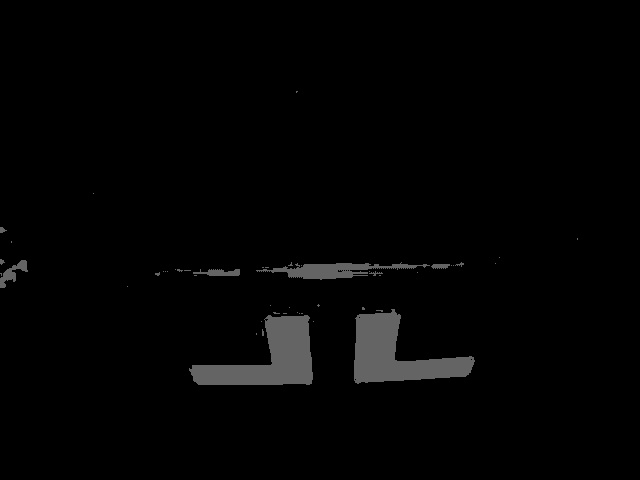
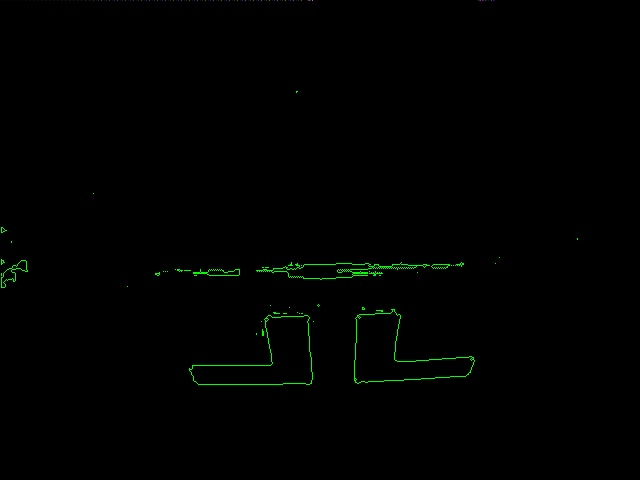
Added Convex Hull to algorithm

diff --git a/src/Program.java b/src/Program.java
@@ -2,7 +2,11 @@ import java.io.File;
 import java.util.ArrayList;
 
 import org.opencv.core.Core;
+import org.opencv.core.CvType;
 import org.opencv.core.Mat;
+import org.opencv.core.MatOfInt;
+import org.opencv.core.MatOfPoint;
+import org.opencv.core.Scalar;
 import org.opencv.highgui.Highgui;
 import org.opencv.imgproc.Imgproc;
 
@@ -21,11 +25,22 @@ public class Program {
 		System.loadLibrary(Core.NATIVE_LIBRARY_NAME);
 
 		// Load image
-		Mat image = Highgui.imread(srcpath);
+		Mat rawImage = Highgui.imread(srcpath);
 
+		// Threshold the raw image into a binary image
+		Mat binaryImage = thresholdHSV(rawImage);
+		// Find contours and outline convex hull around shapes
+		Mat convexHull = convexHull(binaryImage);
+		
+
+		// Write output
+		Highgui.imwrite(dstpath, convexHull);
+	}
+	
+	public static Mat thresholdHSV(Mat rawRGBImage){
 		// Convert to HSV color space
 		Mat hsv = new Mat();
-		Imgproc.cvtColor(image, hsv, Imgproc.COLOR_BGR2HSV);
+		Imgproc.cvtColor(rawRGBImage, hsv, Imgproc.COLOR_BGR2HSV);
 
 		// Split color channels
 		ArrayList<Mat> dsts = new ArrayList<Mat>();
@@ -34,7 +49,7 @@ public class Program {
 		Mat satSrc = dsts.get(1);
 		Mat valSrc = dsts.get(2);
 
-		// Threshold (Hue and Sat only)
+		// Threshold channels individually
 		Mat hueDst = new Mat();
 		Mat satDst = new Mat();
 		Mat valDst = new Mat();
@@ -48,11 +63,54 @@ public class Program {
 		// Combine operations to form binary image
 		Core.bitwise_and(hueDst, satDst, binTemp);
 		Core.bitwise_and(valDst, binTemp, binImg);
-
-		// Write output
-		Highgui.imwrite(dstpath, binImg);
+		
+		// Return the thresholded binary image
+		return binImg;
 	}
 
+	public static Mat convexHull(Mat binaryImage){
+		// Find contours in the image
+		ArrayList<MatOfPoint> contours = new ArrayList<MatOfPoint>();
+		Imgproc.findContours(binaryImage, contours, new Mat(), Imgproc.RETR_TREE, Imgproc.CHAIN_APPROX_SIMPLE);
+		
+		// Find the convex hull object for each contour
+		ArrayList<MatOfInt> hull = new ArrayList<MatOfInt>();
+		for(int i=0; i < contours.size(); i++){
+			hull.add(new MatOfInt());
+		}
+		for(int i=0; i < contours.size(); i++){
+			Imgproc.convexHull(contours.get(i), hull.get(i));
+		}
+		
+		// Convert MatOfInt to MatOfPoint to draw hull
+		ArrayList<MatOfPoint> hullmop = new ArrayList<MatOfPoint>();
+		for(int i=0; i < hull.size(); i++){
+			MatOfPoint mopOut = new MatOfPoint();
+			mopOut.create((int)hull.get(i).size().height,1,hull.get(i).type());
+			
+			for(int j=0; j < hull.get(i).size().height; j++){
+				int index = (int)hull.get(i).get(j, 0)[0];
+				double[] point = new double[] {
+						contours.get(i).get(index, 0)[0], contours.get(i).get(index, 0)[1]
+				};
+				mopOut.put(j, 0, point);
+				
+				hullmop.add(mopOut);
+			}
+		}
+		
+		// Draw contours + hull results
+		Mat overlay = new Mat(binaryImage.size(), CvType.CV_8UC3);
+		Scalar color = new Scalar(0, 255, 0);	// Red
+		for(int i=0; i < contours.size(); i++){
+			Imgproc.drawContours(overlay, contours, i, color);
+			Imgproc.drawContours(overlay, hullmop, i, color);
+		}
+		
+		// Return contour drawn image
+		return overlay;
+	}
+	
 	public static void main(String[] args) {
 		// Process all images in the testing folder
 		File folder = new File("images/src");
